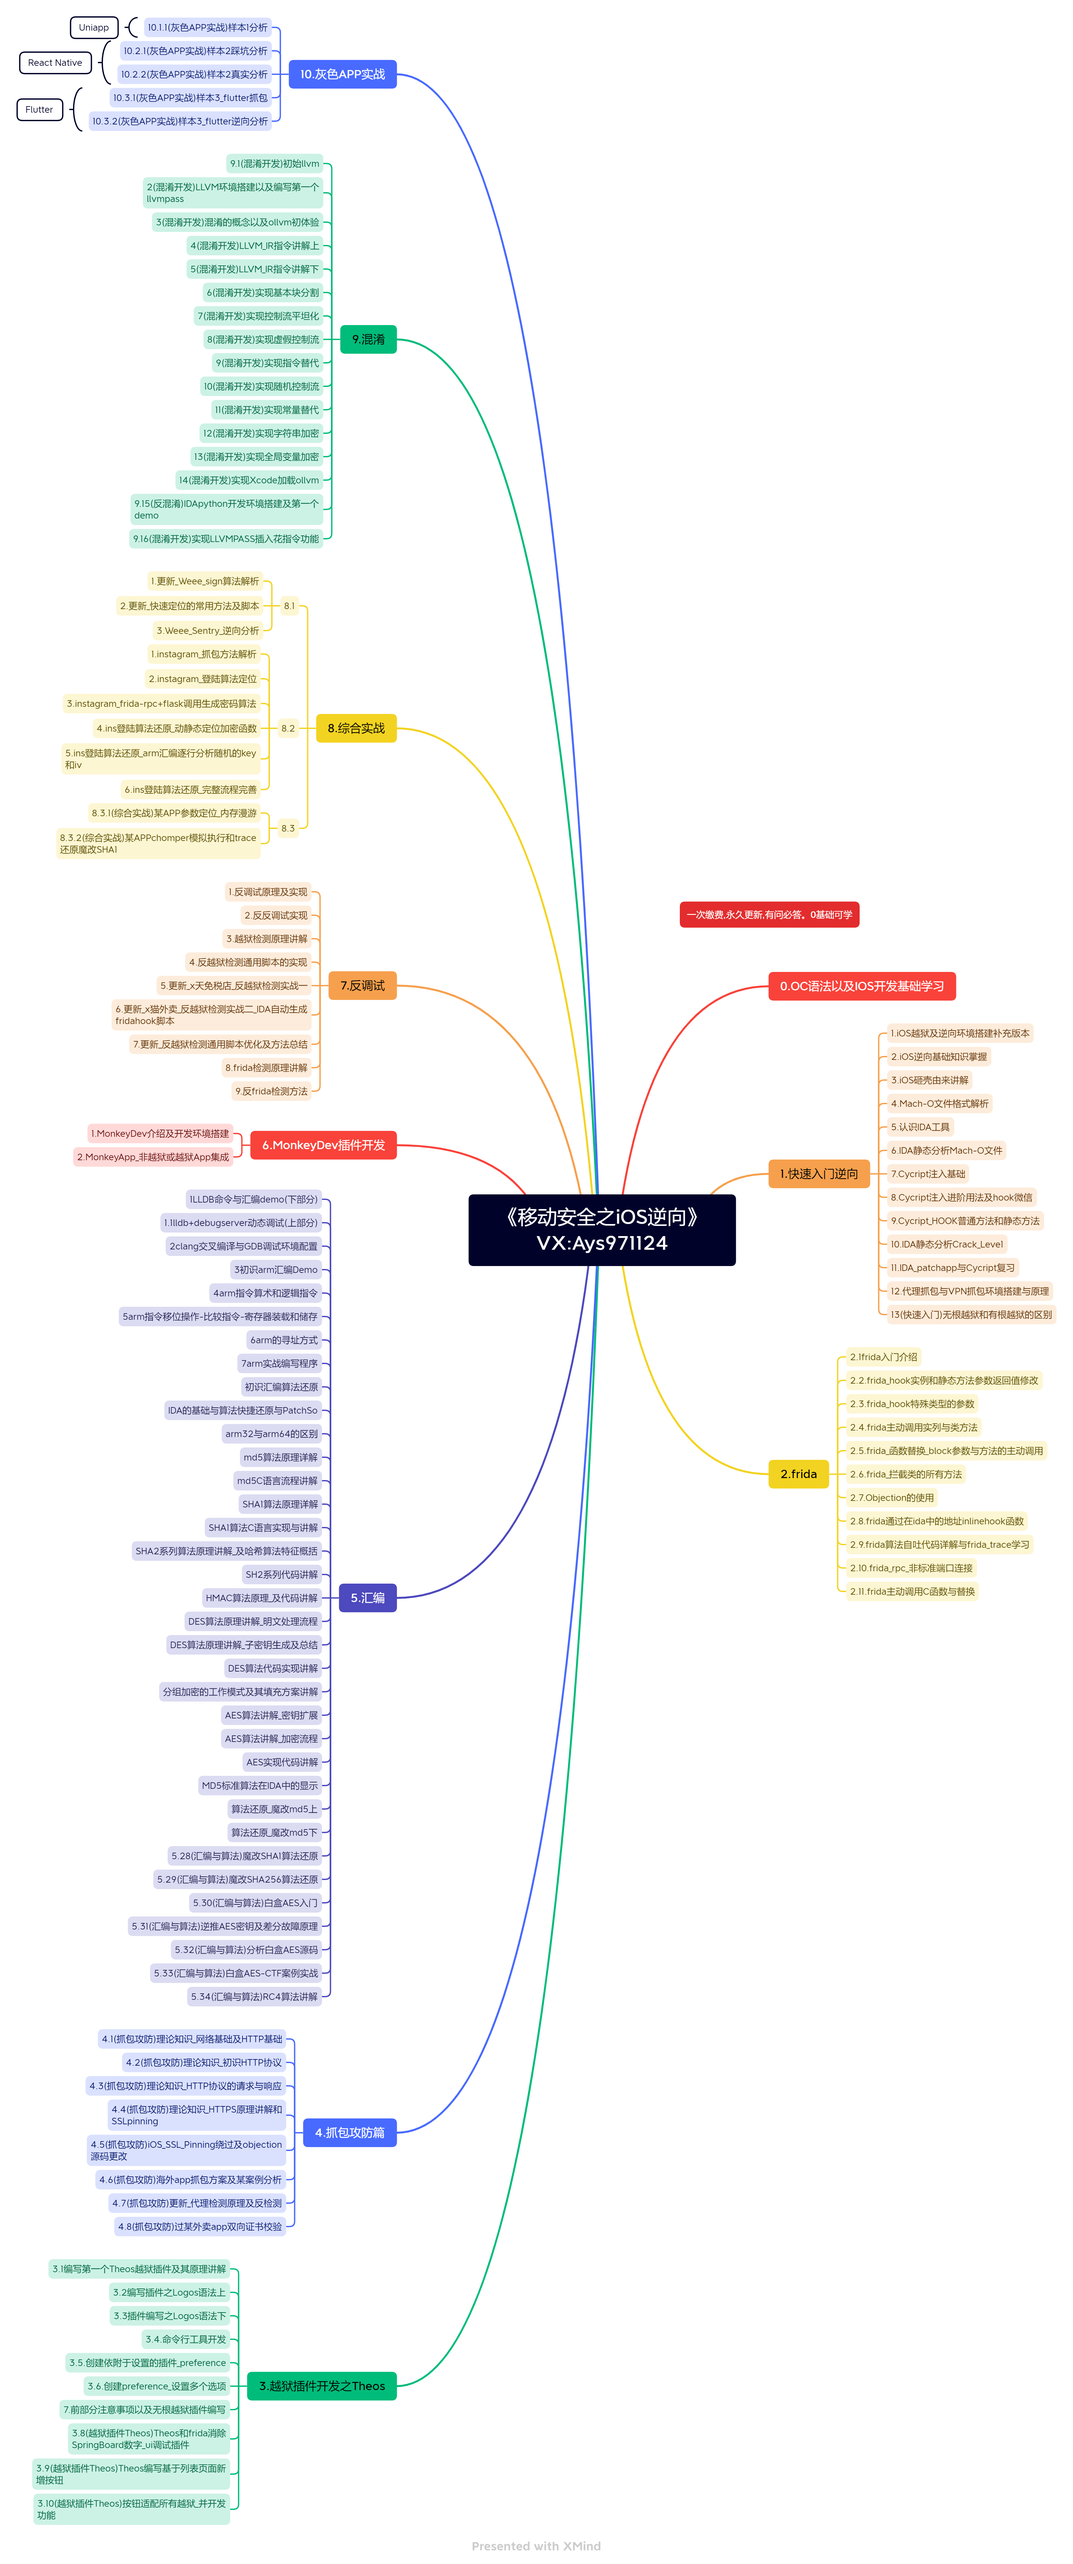
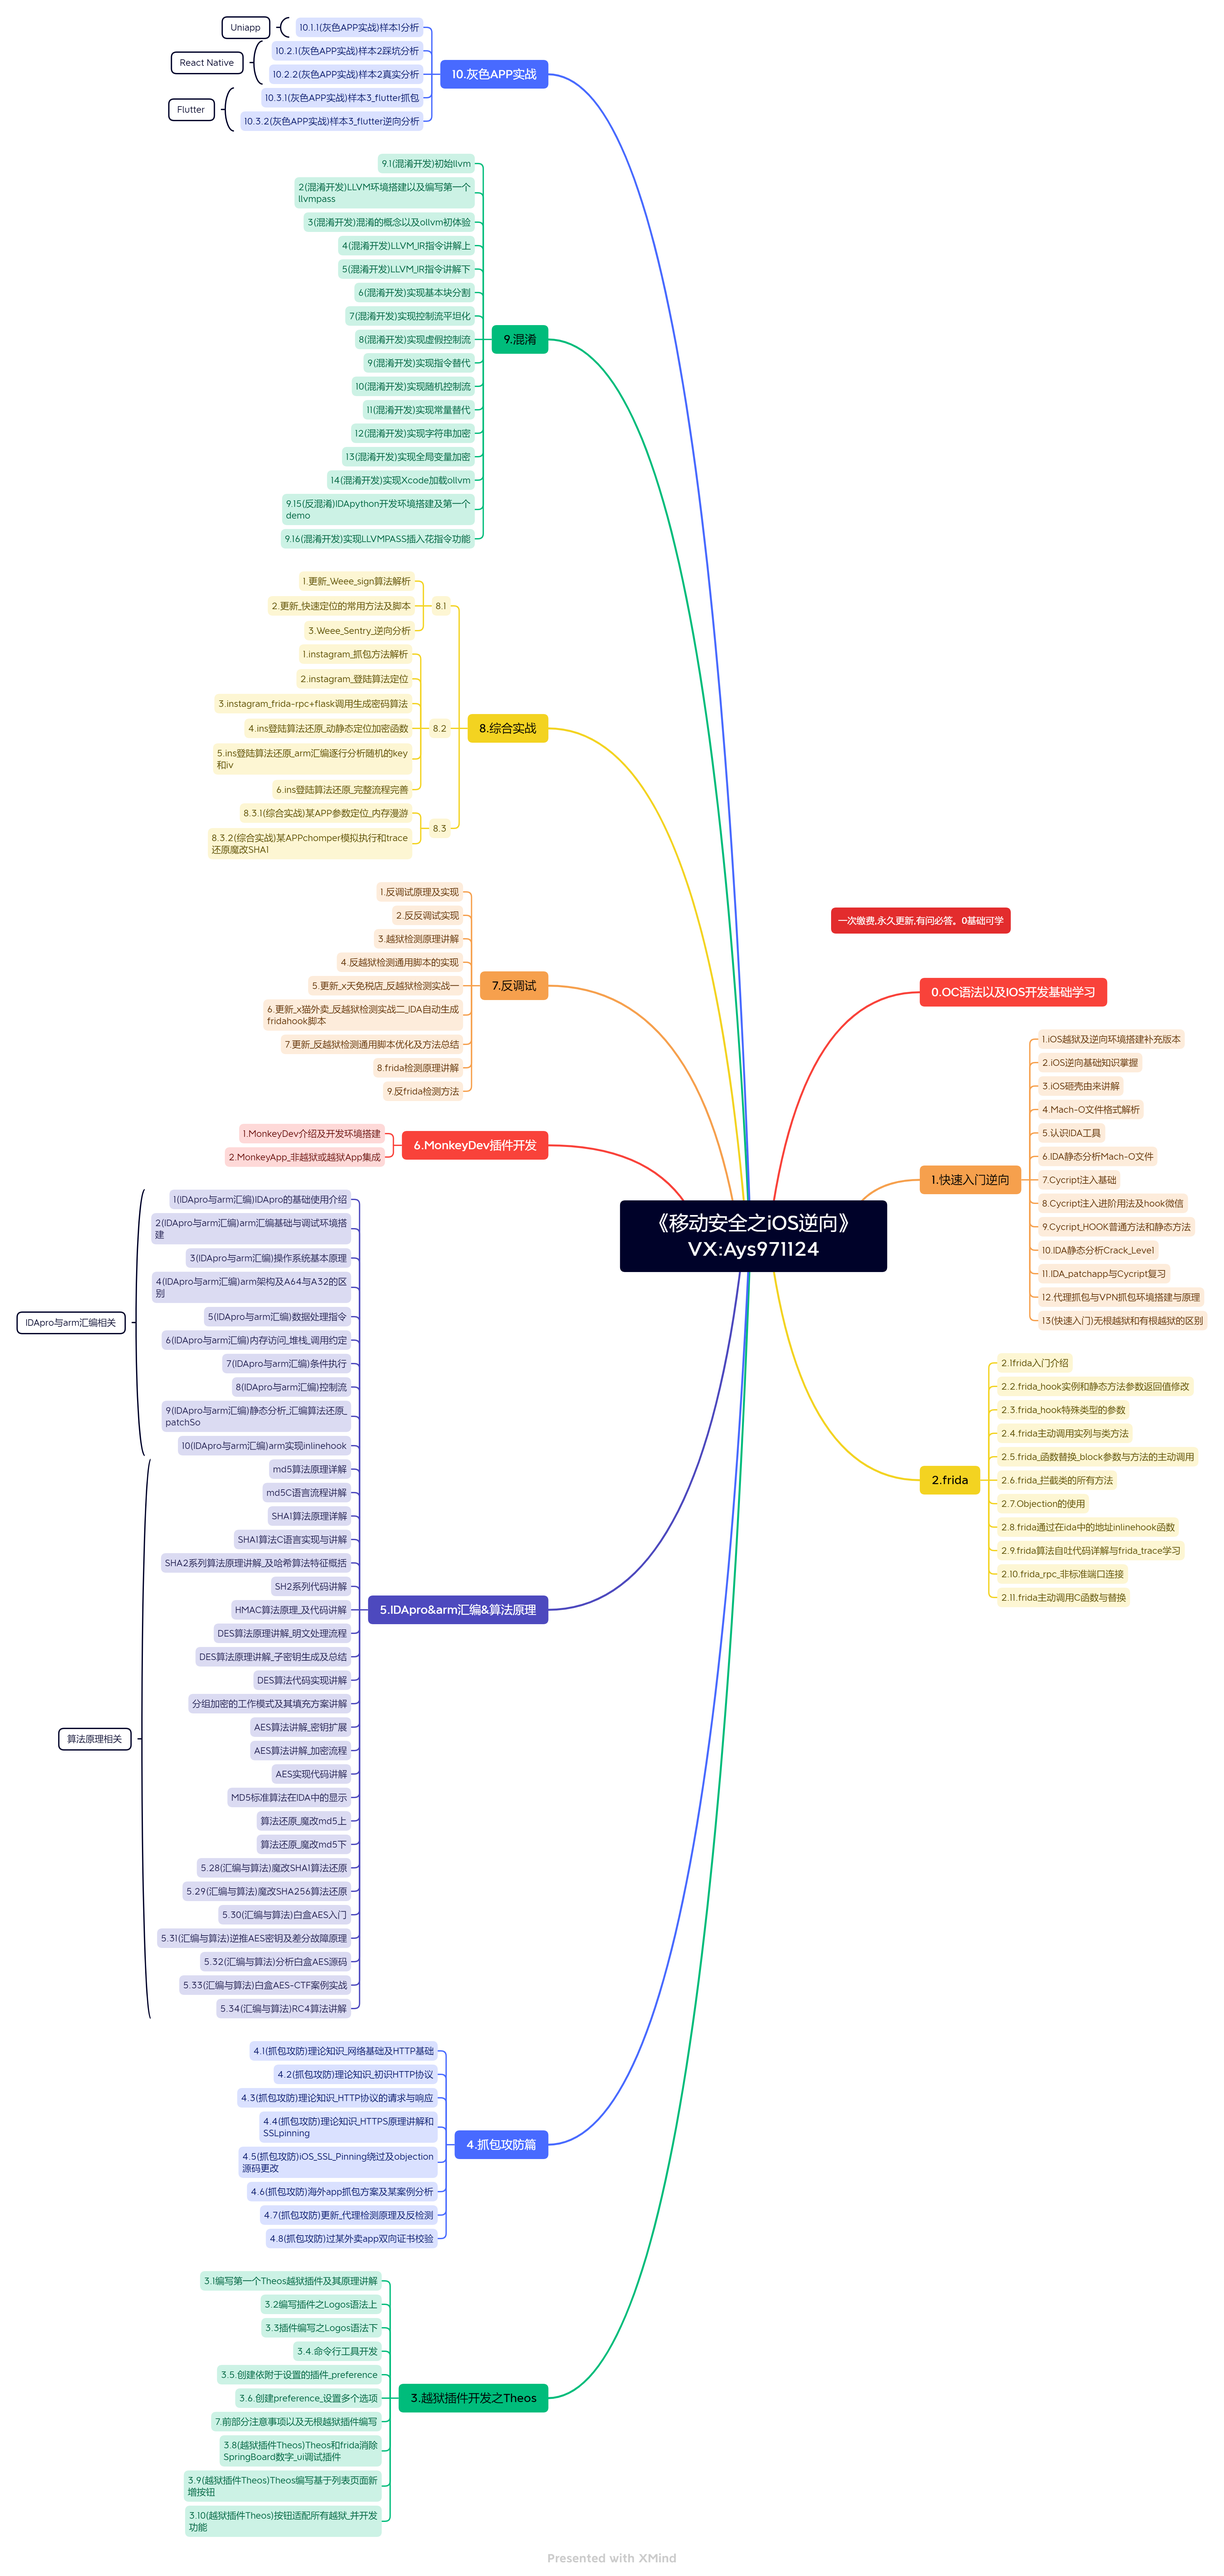
2025年6月份更新记录

diff --git a/README.md b/README.md
@@ -34,16 +34,14 @@
 
 1. 每集大概20-30分钟.思维导图代表课程目录。学习时长自己判断哦
 
-
-
 ![image-20230602113652385](README.assets/《移动安全之安卓逆向》.png)
+
+
 
 ## 2.移动安全之iOS逆向
 
 
 1. 每集大概20-30分钟.思维导图代表课程目录。学习时长自己判断哦
-
-
 
 ### 课程目录
 
@@ -163,6 +161,27 @@ iOS更新
 
 > 1.使用chomper模拟执行iOS
 > 2.分析chomper Trace日志。魔改SHA1算法还原
+
+### 2025.6月份更新记录
+
+安卓和iOS逆向更新相同
+
+安卓在第八章   iOS在第五章  同时之前的1-10节课已经替换成下面的新版本了。
+
+```
+1(IDApro与arm汇编)IDAPro的基础使用介绍
+2(IDApro与arm汇编)arm汇编基础与调试环境搭建
+3(IDApro与arm汇编)操作系统基本原理
+4(IDApro与arm汇编)arm架构及A64与A32的区别
+5(IDApro与arm汇编)数据处理指令
+6(IDApro与arm汇编)内存访问_堆栈_调用约定
+7(IDApro与arm汇编)条件执行
+8(IDApro与arm汇编)控制流
+9(IDApro与arm汇编)静态分析_汇编算法还原_patchSo
+10(IDApro与arm汇编)arm实现inlinehook
+```
+
+
 
 ## 4.学员评价
 
